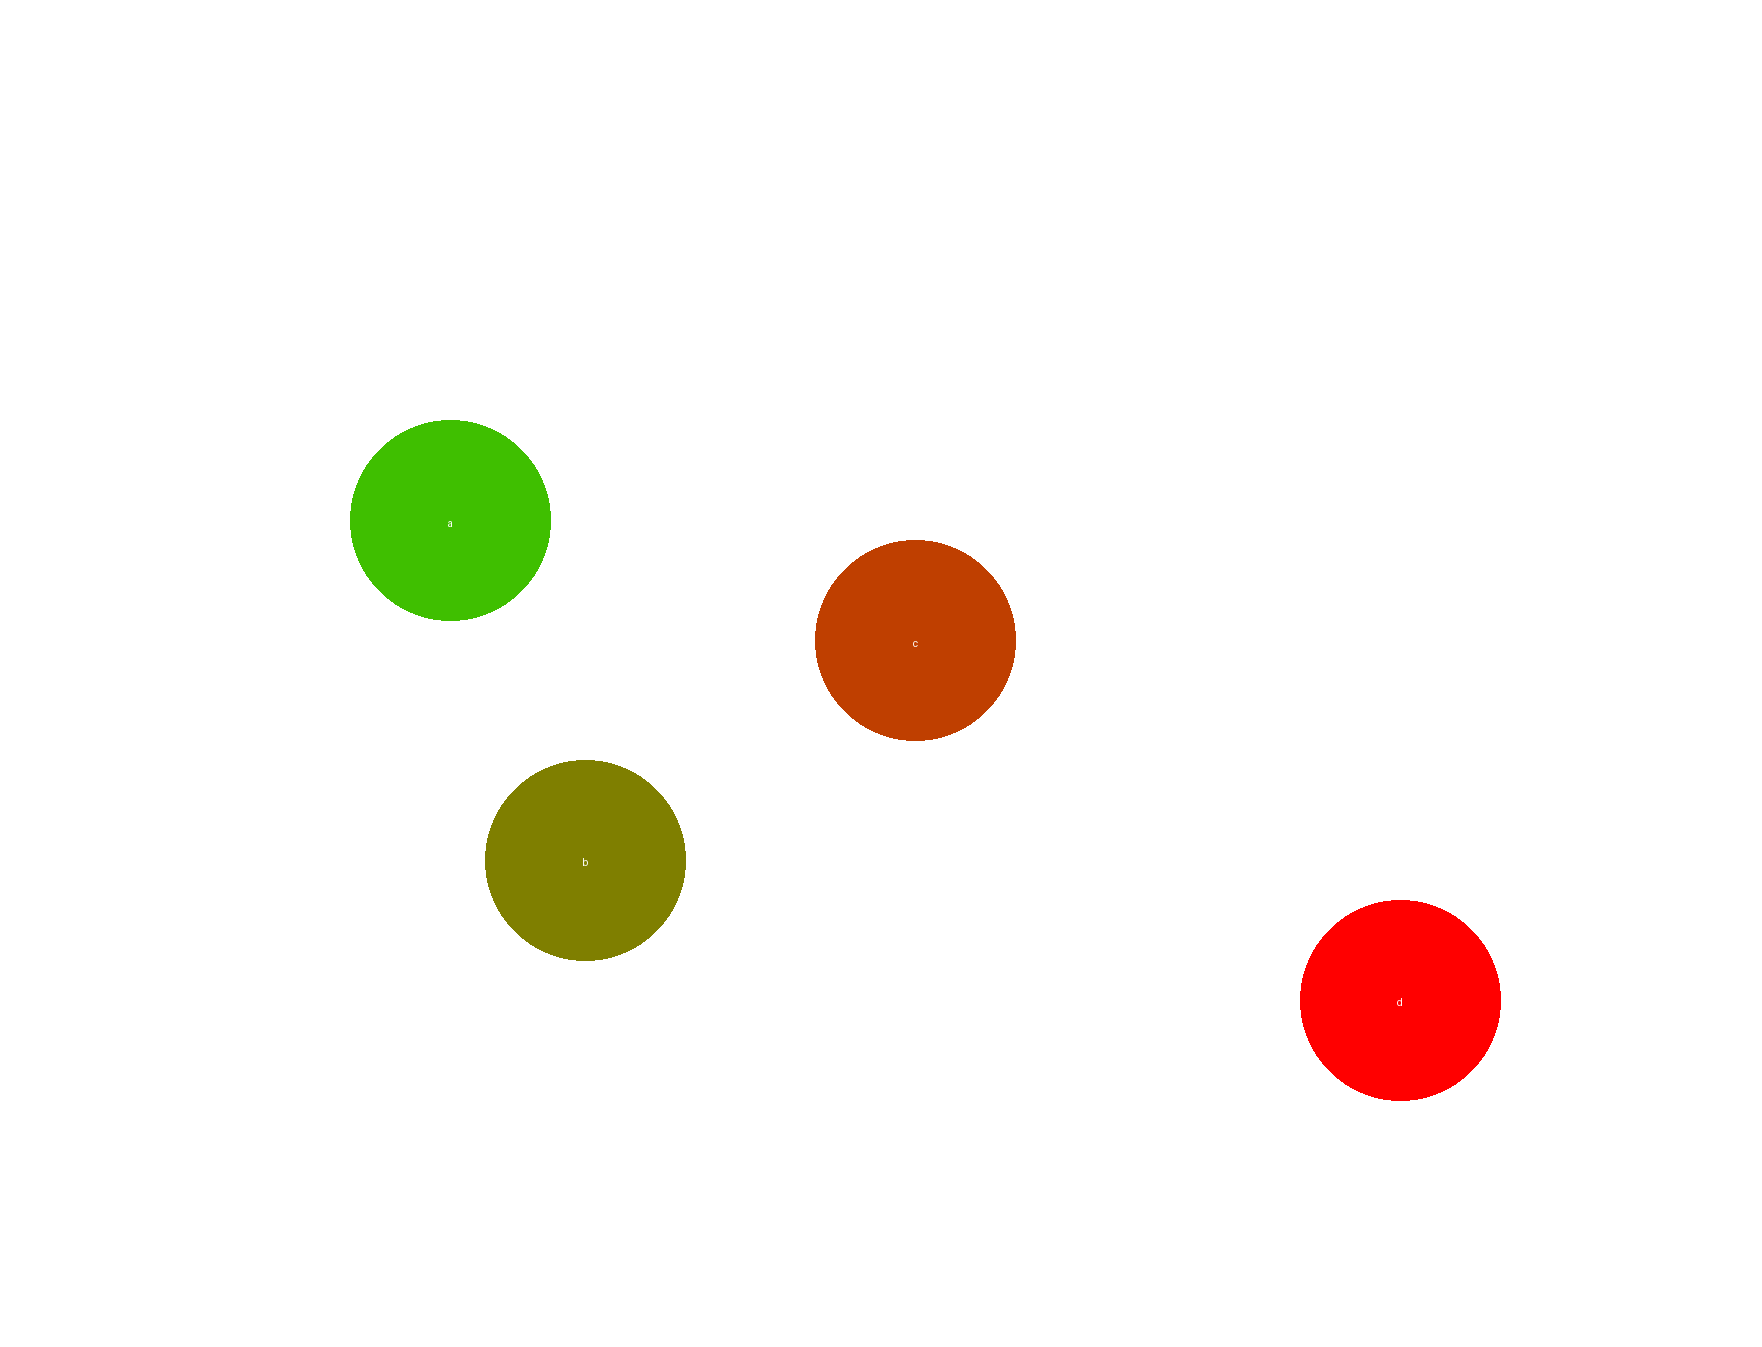
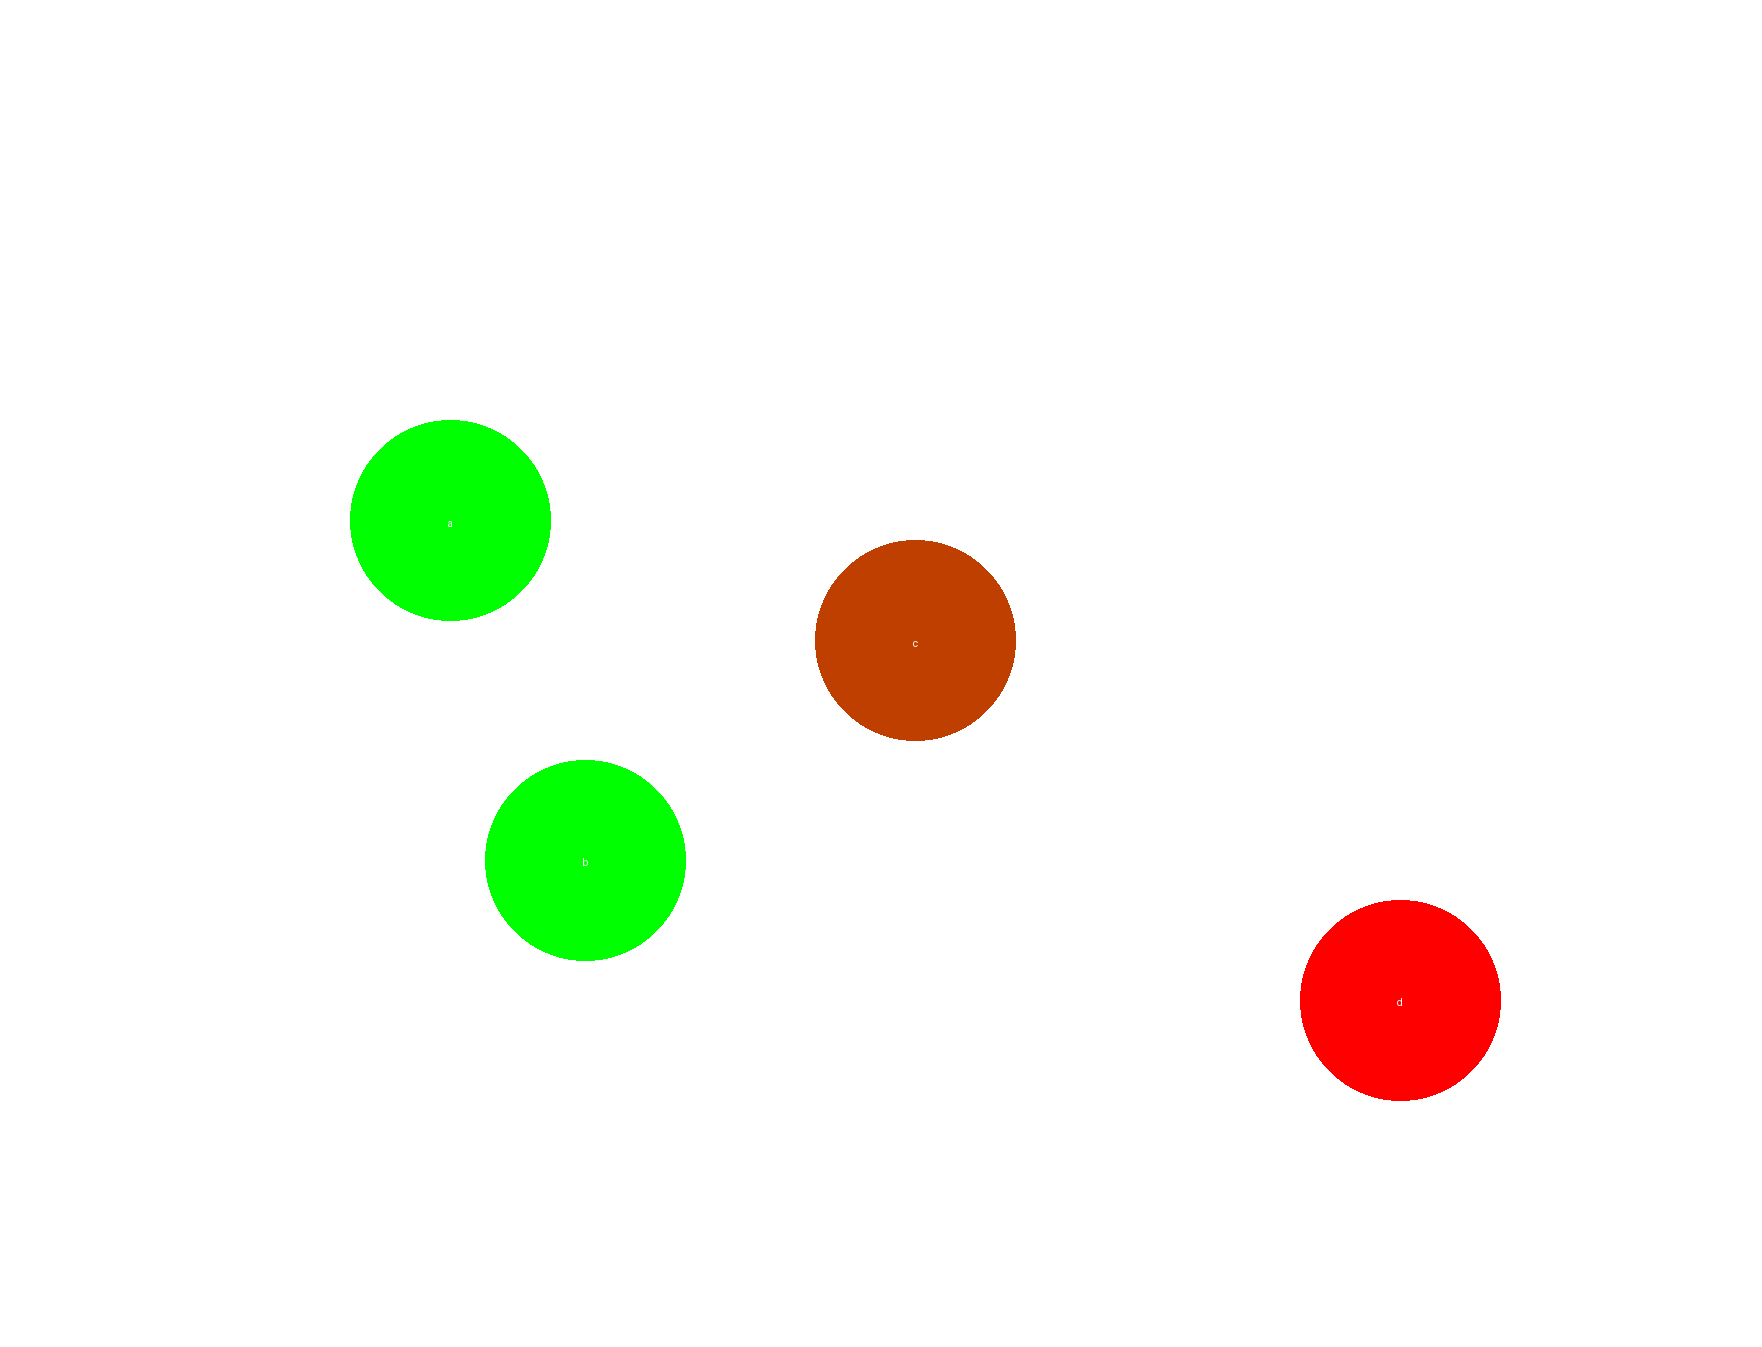
123

Changed region(s): [[0.2497, 0.5612, 0.4058, 0.7171], [0.1873, 0.3118, 0.3121, 0.4677]]

diff --git a/main.py b/main.py
@@ -1,6 +1,9 @@
 
 from flask import Flask, send_file, request, jsonify
 from modules import *
+from flask_cors import CORS
+app = Flask(__name__)
+CORS(app)
 
 #parameter for demo
 radius = 100
@@ -10,54 +13,61 @@ final_output_path = 'final_hm.png'
 array_size = (1762, 1347)  # Size of the image (width, height)
 
 zone_number = {
-    "a":600 ,
+    "a":3000 ,
     "b":1500 ,
     "c":2000 ,
     "d":3000 ,
 }
 
 # Example usage
-zone_color = generate_zone_color(zone_number)
-print(1)
-zone_coor = read_zone_coor(zone_coor_file_path)
-generate_hm(array_size, zone_coor, radius, zone_color)
-overlap_images(final_output_path)
+
 
 app = Flask(__name__)
 
 # hard coded dictoinary with initial zone_number set as 0
 
-@app.route('/')
+@app.route('/', methods= ['POST', 'GET'])
 def home():
     return "hello world"
 
 @app.route('/api/zone_number', methods=['POST'])
 def update_zone_number():
-    data = request.json
-    zone_id = data.zone_id
-    number_device = data.number_device
+    try:
+        data = request.get_json()  # Parse JSON data
+        uniqueID = str(data.get('uniqueID'))
+        deviceCount = int(data.get('deviceCount'))
+        zone_number[uniqueID] = deviceCount
+        print(zone_number)
+        
+        # Process the data
+        # For example, just returning the received data
+        return jsonify({
+            'receivedUniqueID': uniqueID,
+            'receivedDeviceCount': deviceCount
+        }), 200
+    except Exception as e:
+        return jsonify({'error': str(e)}), 400
 
-    for i in range(4):
-        zone_number[zone_id[i]] = number_device[i] 
     
 
     # Process data and create item
     return 201
 
 
-
-
 @app.route('/image', methods=['GET'])
 def get_image():
     # Path to the PNG image you want to return
     image_path = 'final_hm.png'
-    
+    zone_color = generate_zone_color(zone_number)
+
+    zone_coor = read_zone_coor(zone_coor_file_path)
     generate_hm(array_size, zone_coor, radius, zone_color)
     overlap_images(final_output_path)
+    
     
     # Return the image as a response
     return send_file(image_path, mimetype='image/png')
 
 
 if __name__ == '__main__':
-    app.run()
+    app.run(host='0.0.0.0', port=8000)

diff --git a/README.md b/README.md
@@ -1,2 +1,83 @@
-# SIamLah!
+generate_hm(array_size, zone_coor, radius, colors)
+ ⁃ Creates a heatmap image with labeled zones based on given coordinates, radius, and colors. This function is useful for visualizing data where each zone is represented as a circle with a specified color on a 2D grid, helping to convey information about density, concentration, or other metrics visually
+ ⁃ The function takes 4 parameters:
+ ⁃ array_size: A tuple representing the dimensions of the image (width, height)
+ ⁃ zone_coor: A dictionary where each key is a zone name and each value is a tuple representing the (x, y) coordinates of the zone's center
+ ⁃ radius: A numeric value representing the radius of each zone's circle on the heatmap
+ ⁃ colors: A list of colors corresponding to each zone, where each color is represented in a format acceptable to PIL (e.g., RGB tuple or hex string)
+ ⁃ The function creates a new img image with a transparent background of the specified array_size using RGBA mode. A drawing context draw is created for the image to allow drawing operations
+ ⁃ Attempts to load the Arial TrueType font for labelling. If the font is not found, it falls back to the default PIL font
+ ⁃ For each zone, the function draw an ellipse at the specified coordinates with the given radius and color. The function then calcualtes the bounding box for the text label and draws it at the center of the circle in white colour
+ ⁃ The resulting image is saved as heatmap.png in the specifid output path
+ ⁃ The function does not return any value. The resulting heatmap image is saved directly to the file system
 
+ ⁃ Requirements: Python 3.xx, Pillow
+
+ ⁃ Ensure that the zone_coor and colors lists are of the same length, with each zone having a corresponding color
+ ⁃ The radius should be an appropriate size relative to the image dimensions to ensure that all circles fit within the image boundaries
+ ⁃ The function uses a basic font. If you require custom fonts, ensure they are available in the environment where the script is run
+ ⁃ The output file heatmap.png is saved in the test_data directory by default. Ensure this directory exists or modify the output_path variable accordingly
+
+
+
+overlap_images(output_path)
+ ⁃ Overlays two images on top of each other to create a composite image. It is designed to blend a heatmap (or any overlay image) onto a base map or background image. The resulting image is saved to a specified output path
+ ⁃ The overlap_images function takes a single parameter output_path which is the file path where the resulting overlaid image will be saved
+ ⁃ The function loads 2 images from predefined file paths:
+ ⁃ image1_path (map.png): the base image, such as a map
+ ⁃ image2_path (heatmap.png): the overlay image, such as a heatmap
+ ⁃ Both images are converted to RGBA mode to ensure they support transparency
+ ⁃ The function checks if both images have the same dimensions. If not, it raises a ValueError, as overlaying requires the images to be of the same size.
+ ⁃ A new blank RGBA image (result) with the same dimensions as the input images is created. The base image (img1) is pasted onto the result image. The overlay image (img2) is then pasted onto the result image using itself as a mask, allowing for proper transparency handling
+ ⁃ The resulting overlaid image is saved to the specified output_path
+ ⁃ This function does not return any value. The resulting overlaid image is saved directly to the file system
+
+ ⁃ Requirements: Python 3.xx, Pillow, images heatmap.png and map.png which must be present in the test_data directory and have the same dimensions
+
+
+ read_zone_coor(file_path)
+ ⁃ Reads a file containing zone names and their corresponding coordinates. The function returns a dictionary where the key-value pairs are zone names and their respective x-y coordinates. 
+
+ ⁃ Each line is stripped of any trailing newline characters. Spaces are removed as well. Each lines are then split by the commas into a list called parts; parts[0] is zone name, part[1] being x-coordinates, then part[2] the y-coordinates. Zone name and coordinates are then converted to integers stored into a tuple.
+ ⁃ A dictionary named zone_dict is then created with zone names as keys and their respective coordinate tuples as the values.
+ ⁃ The function returns the zone_dict dictionary
+
+ ⁃ Requirements: Python 3.xx and a text file with the format “zone_name, x_coordinate, y_coordinate” for input
+
+
+
+generate_zone_color(number_per_zone, radius) 
+ ⁃ Calculates a density value for multiple zones based on the participant number in each zone and a given radius. The function is designed to help generate a color coding scheme for each zone based on their crowd density, returning a dictionary where the key-value pair is the zone name and their corresponding crowd density
+
+ ⁃ Parameter number_per_zone is a dictionary where keys are zone names and values are participant number in each zone. Parameter radius is a numeric value representing the radius of the area considered for density calculation
+ ⁃ The function calculates the area of a zone using the formula area=π×(radius**2) where π is approximated as 3.14
+ ⁃ The function iterates over the number of participants for each zone. Crowd density for each zone is then calculated by dividing the participant number by the area. Calculation result is then rounded to 3 decimal places
+ ⁃ A dictionary named zone_color is created to store the density for each zone, with zone names as keys and their respective densities as values. This density value can then be used to determine the color coding for each zone based on your specific application needs
+ ⁃ The function returns the zone_color dictionary containing the density values for each zone
+
+ ⁃ Requirements: Python 3.xx
+
+ ⁃ The function assumes that each zone is a circle with the same radius.
+ ⁃ The function does not perform error checking. Ensure that all inputs are valid and correctly formatted
+ ⁃ The value of π is approximated as 3.14 in this function
+ ⁃ The density values returned by this function can be used to determine colors based on a predefined scale or color map in your application
+
+
+ ⁃ This function assumes that the input images (map.png and heatmap.png) are located in the test_data directory. Both input images must also have the same dimensions. If not, the function will raise a ValueError
+ ⁃ The function uses the RGBA mode to handle transparency in the overlay image (heatmap.png). The images used must be in a format that supports transparency, like PNG.
+ ⁃ The output image is saved in PNG format to maintain transparency. The output format can be modified if needed by changing the file extension in the output_path
+
+
+
+green_to_red(value, transparent=1)
+ ⁃ Generates an RGBA color value based on a gradient scale from green to red
+ ⁃ The function takes in 2 parameters:
+ ⁃ value (float): A value between 0 and 1 representing the position on the gradient scale from green to red. 0 corresponds to pure green (0, 255, 0). 1 corresponds to pure red (255, 0, 0). Values in between represent a mix of green and red, moving from green through yellow to red
+ ⁃ transparent (float, optional): A value between 0 and 1 that specifies the alpha (opacity) value of the color. 1 represents fully opaque (default). 0 represents fully transparent
+ ⁃ The function returns a tuple (int, int, int, int) representing the RGBA colour where: 
+ ⁃ The first value is the red component (0-255)
+ ⁃ The second value is the green component (0-255)
+ ⁃ The third value is the blue component (always 0 in this function)
+ ⁃ The fourth value is the alpha (opacity) component (0-255)
+
+ ⁃ Requirements: Python 3.xx
